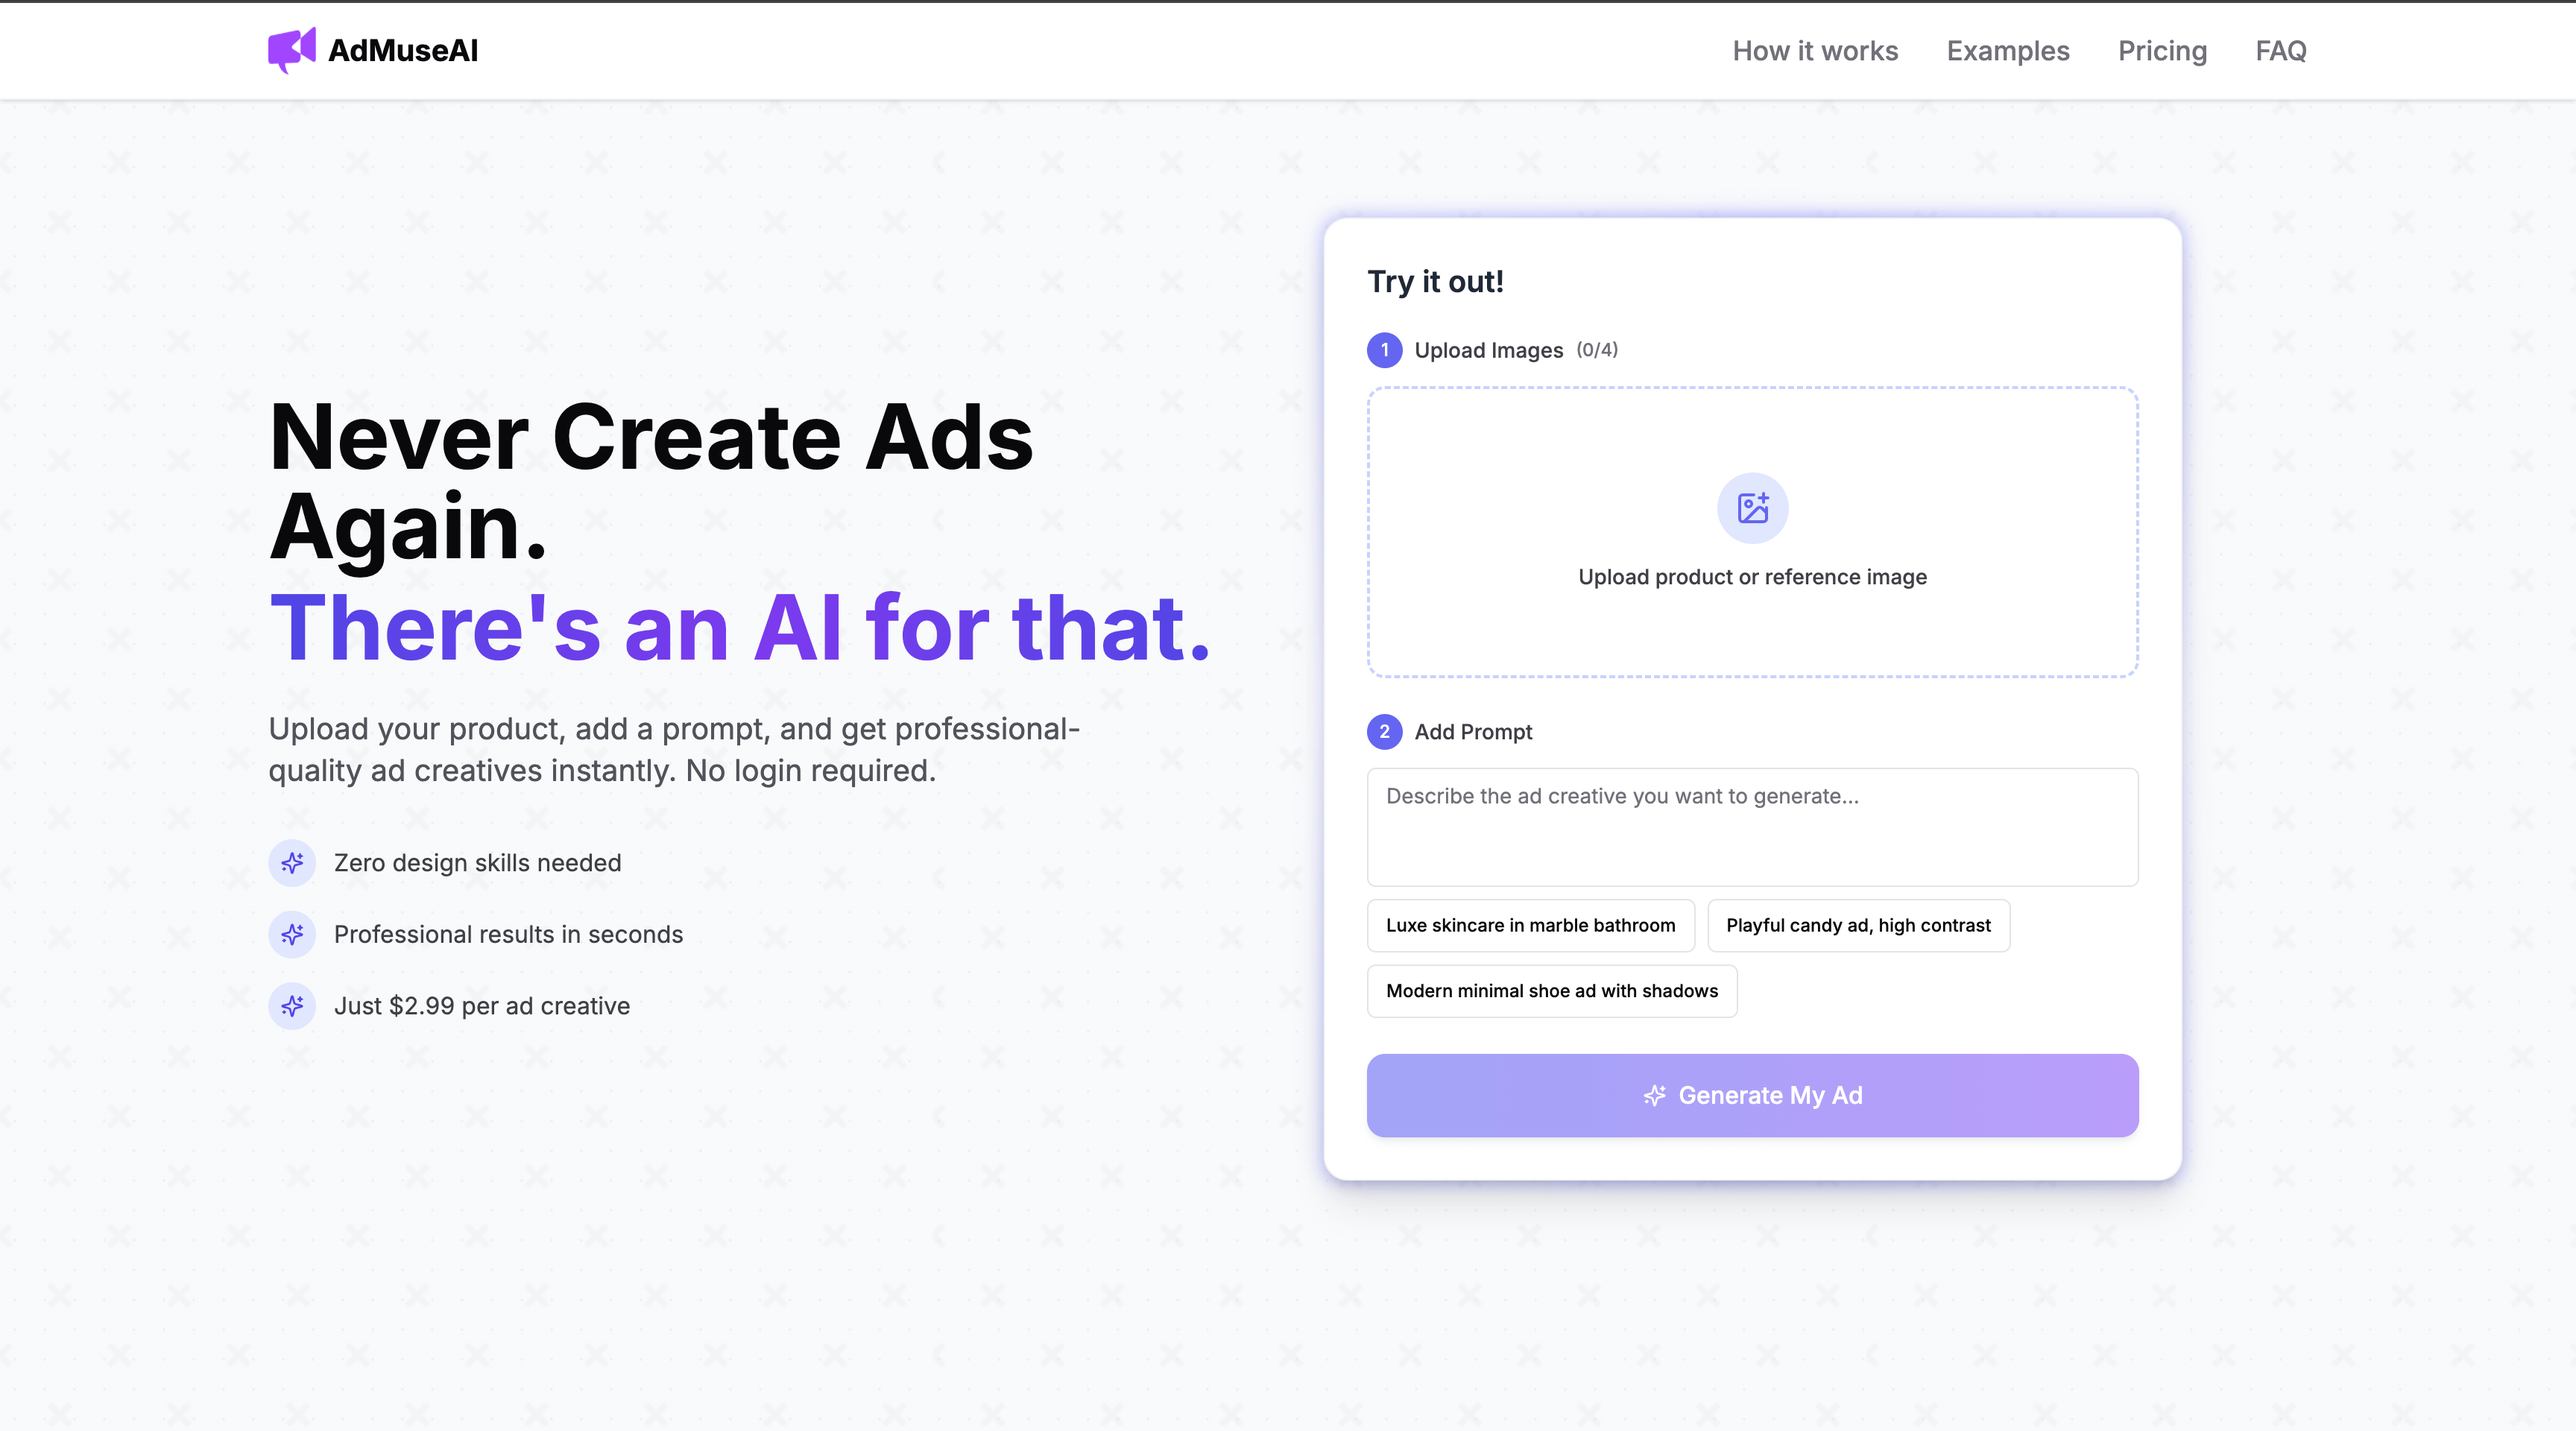
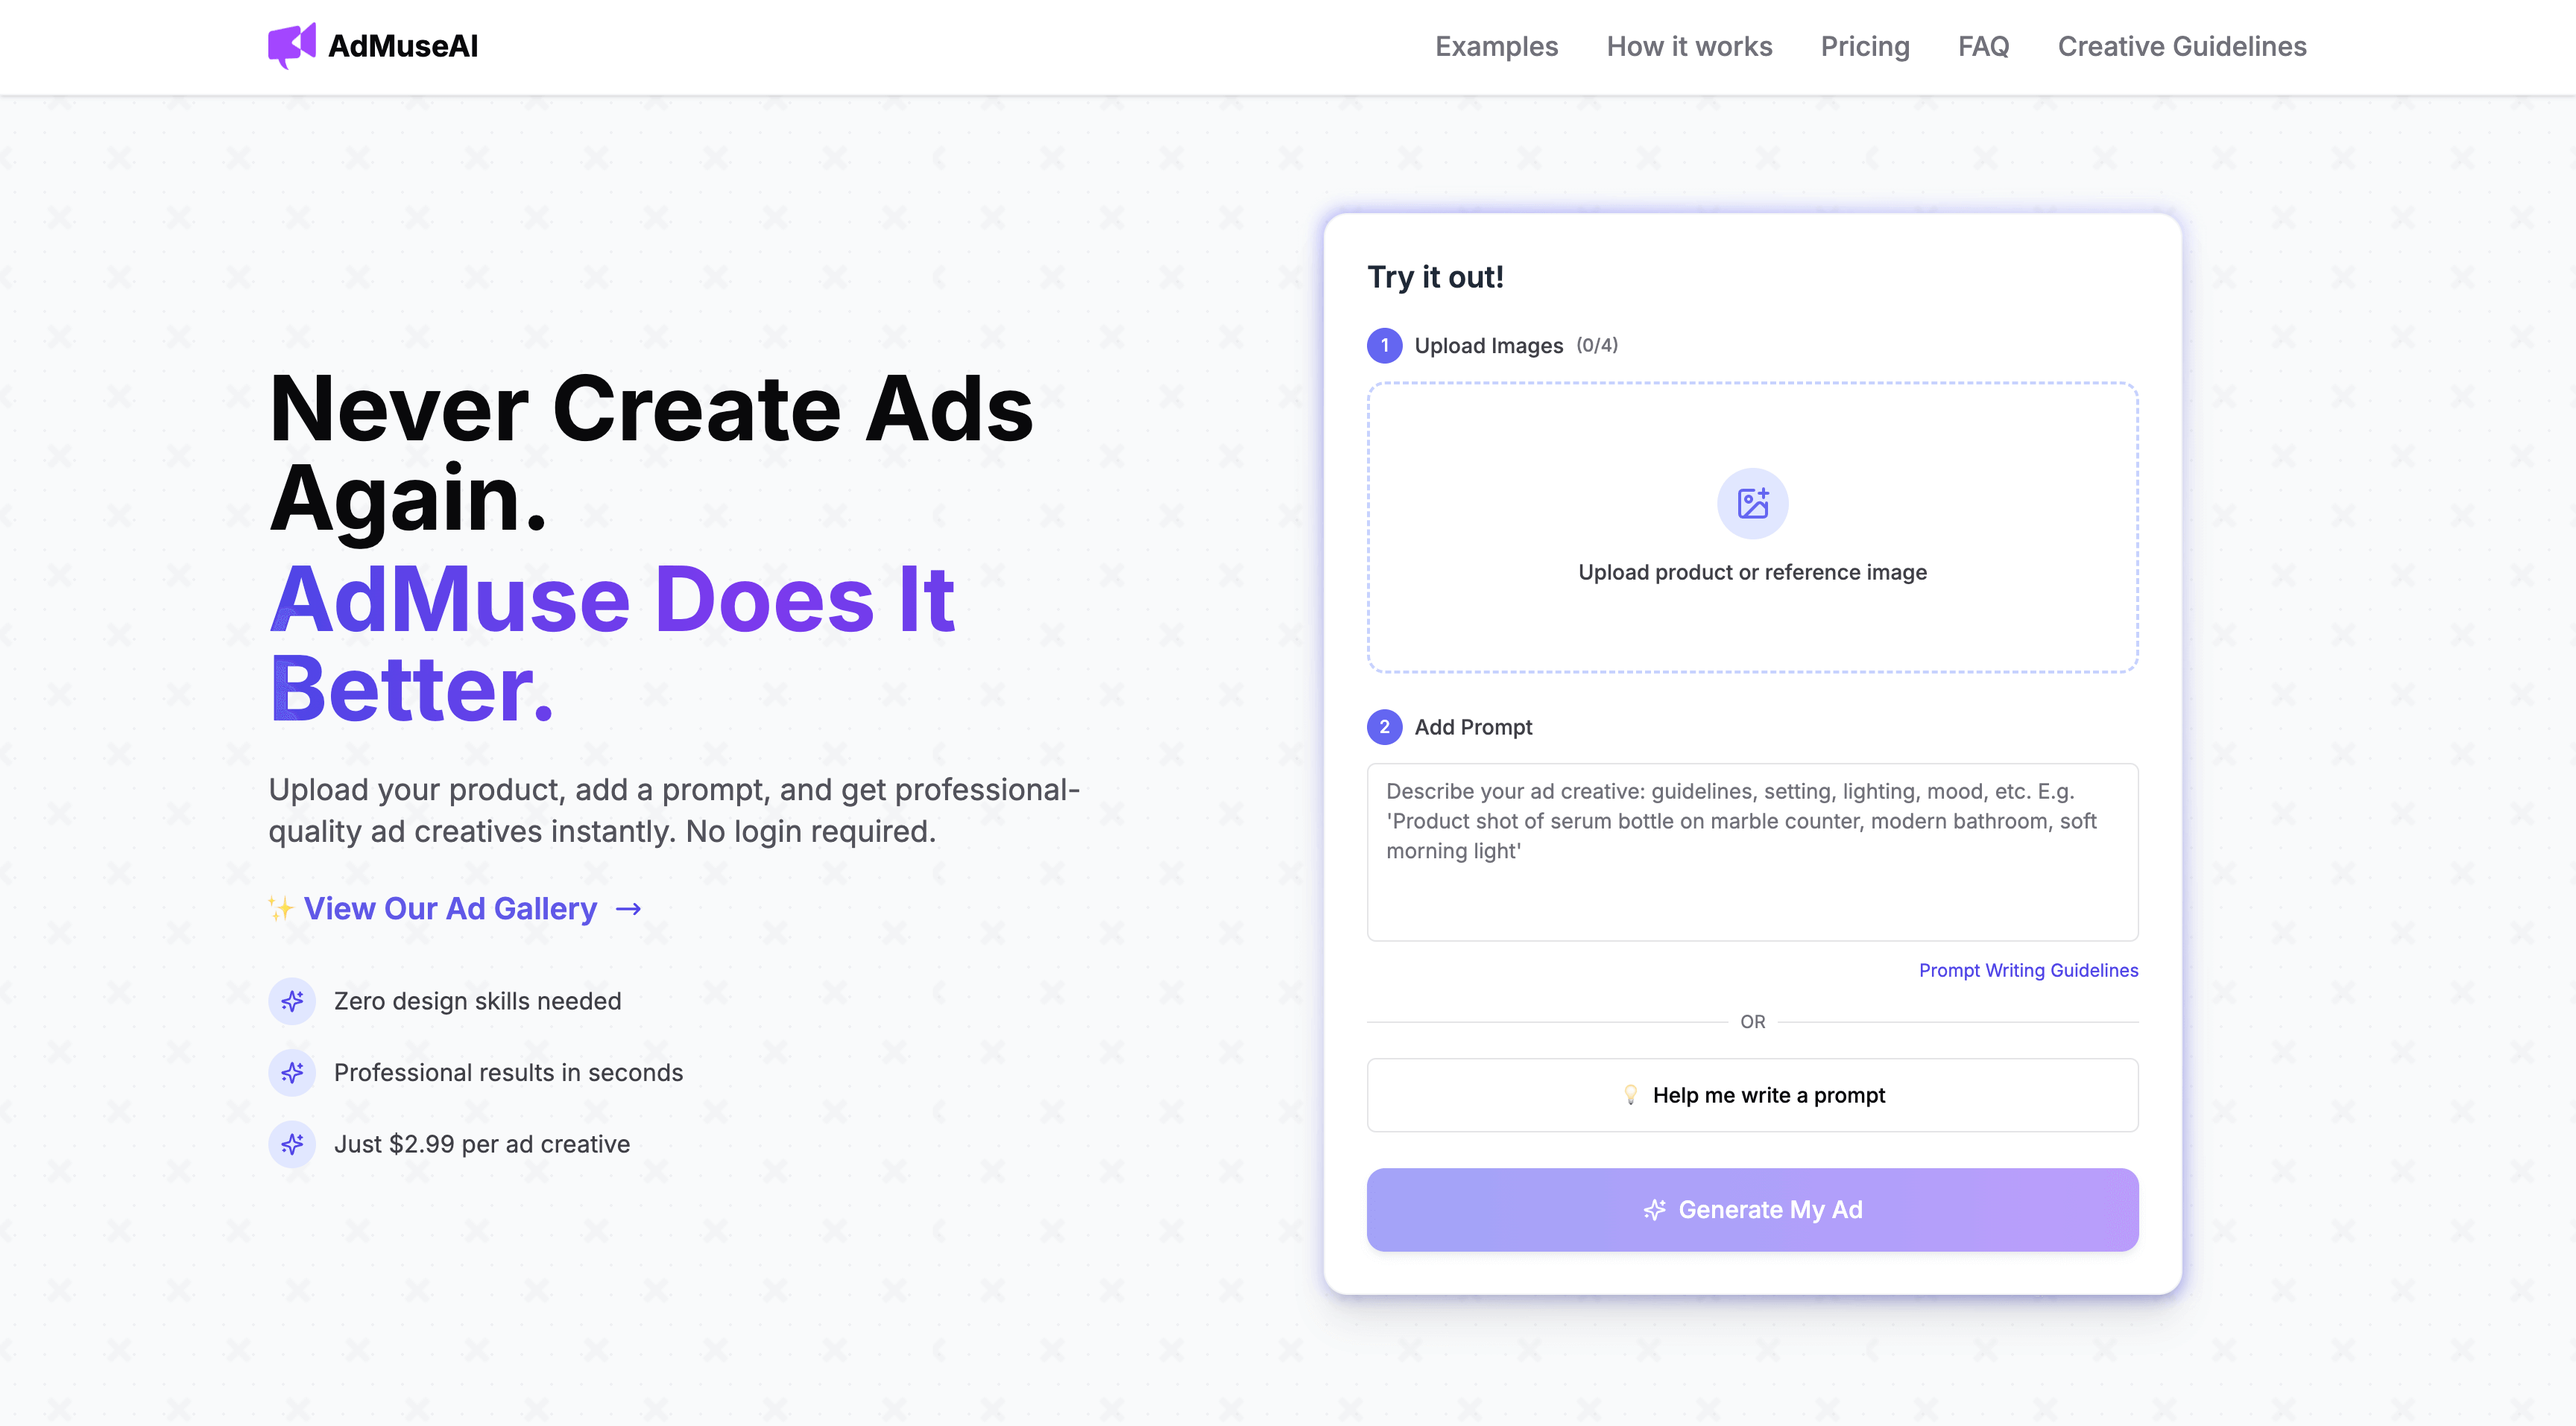
added prompt-guidelines link in wizard

diff --git a/components/prompt-wizard.tsx b/components/prompt-wizard.tsx
@@ -1,6 +1,7 @@
 "use client";
 
 import { useState } from "react";
+import Link from "next/link";
 
 import {
   Dialog,
@@ -320,62 +321,83 @@ export default function PromptWizard({
                   </p>
                 )}
                 {currentStep === 1 ? (
-                  <div className="grid grid-cols-2 gap-4">
-                    {(Object.keys(templates) as TemplateType[]).map(
-                      (templateType) => (
-                        <TooltipProvider key={templateType}>
-                          <Tooltip>
-                            <TooltipTrigger asChild>
-                              <button
-                                onClick={() => {
-                                  setValues({
-                                    ...values,
-                                    template: templateType,
-                                  });
-                                  trackAnalytics(
-                                    ANALYTICS_EVENTS.PROMPT_WIZARD_TEMPLATE_CLICKED,
-                                    {
+                  <>
+                    <div className="grid grid-cols-2 gap-4">
+                      {(Object.keys(templates) as TemplateType[]).map(
+                        (templateType) => (
+                          <TooltipProvider key={templateType}>
+                            <Tooltip>
+                              <TooltipTrigger asChild>
+                                <button
+                                  onClick={() => {
+                                    setValues({
+                                      ...values,
                                       template: templateType,
-                                    }
-                                  );
-                                }}
-                                className={`
-                                w-full p-4 rounded-lg border-2 transition-all duration-200
-                                ${
-                                  values.template === templateType
-                                    ? "border-indigo-600 bg-indigo-50"
-                                    : "border-gray-200 hover:border-indigo-200"
-                                }
-                              `}
-                              >
-                                <div className="text-left">
-                                  <div className="flex items-center gap-2">
-                                    {getTemplateIcon(templateType)}
-                                    <div className="font-medium">
-                                      {getTemplateName(templateType)}
+                                    });
+                                    trackAnalytics(
+                                      ANALYTICS_EVENTS.PROMPT_WIZARD_TEMPLATE_CLICKED,
+                                      {
+                                        template: templateType,
+                                      }
+                                    );
+                                  }}
+                                  className={`
+                                  w-full p-4 rounded-lg border-2 transition-all duration-200
+                                  ${
+                                    values.template === templateType
+                                      ? "border-indigo-600 bg-indigo-50"
+                                      : "border-gray-200 hover:border-indigo-200"
+                                  }
+                                `}
+                                >
+                                  <div className="text-left">
+                                    <div className="flex items-center gap-2">
+                                      {getTemplateIcon(templateType)}
+                                      <div className="font-medium">
+                                        {getTemplateName(templateType)}
+                                      </div>
+                                    </div>
+                                    <div className="text-sm text-gray-500 mt-2">
+                                      {templateDescriptions[templateType].short}
                                     </div>
                                   </div>
-                                  <div className="text-sm text-gray-500 mt-2">
-                                    {templateDescriptions[templateType].short}
-                                  </div>
-                                </div>
-                              </button>
-                            </TooltipTrigger>
-                            <TooltipContent
-                              side="top"
-                              align="center"
-                              sideOffset={5}
-                              className="bg-black text-white w-[250px] p-3"
-                            >
-                              <p className="text-sm leading-relaxed">
-                                {templateDescriptions[templateType].detailed}
-                              </p>
-                            </TooltipContent>
-                          </Tooltip>
-                        </TooltipProvider>
-                      )
-                    )}
-                  </div>
+                                </button>
+                              </TooltipTrigger>
+                              <TooltipContent
+                                side="top"
+                                align="center"
+                                sideOffset={5}
+                                className="bg-black text-white w-[250px] p-3"
+                              >
+                                <p className="text-sm leading-relaxed">
+                                  {templateDescriptions[templateType].detailed}
+                                </p>
+                              </TooltipContent>
+                            </Tooltip>
+                          </TooltipProvider>
+                        )
+                      )}
+                    </div>
+                    <div className="mt-4 text-center">
+                      <Link
+                        href="/prompt-writing-guidelines"
+                        target="_blank"
+                        rel="noopener noreferrer"
+                        className="text-sm text-indigo-600 hover:text-indigo-700 flex items-center gap-2 flex-start"
+                        onClick={() => {
+                          trackAnalytics(
+                            ANALYTICS_EVENTS.PROMPT_WRITING_GUIDELINES_CLICKED,
+                            {
+                              source: "prompt_wizard",
+                            }
+                          );
+                        }}
+                      >
+                        <Info className="h-4 w-4" />
+                        <span>Learn more about our templates</span>
+                      </Link>
+                    </div>
+                  </>
                 ) : (
                   renderFields(currentStepData.fields)
                 )}

diff --git a/components/hero.tsx b/components/hero.tsx
@@ -6,6 +6,13 @@ import AdGenerator from "./ad-generator";
 import { getFormattedPrice } from "@/lib/constants";
 
 export default function Hero() {
+  const scrollToExamples = () => {
+    const examplesSection = document.getElementById("examples");
+    if (examplesSection) {
+      examplesSection.scrollIntoView({ behavior: "smooth" });
+    }
+  };
+
   return (
     <div className="min-h-screen pt-20 md:pt-28 relative overflow-hidden">
       {/* Subtle background pattern */}
@@ -27,13 +34,53 @@ export default function Hero() {
               <h1 className="text-3xl sm:text-4xl md:text-5xl lg:text-6xl font-bold leading-tight mb-4 md:mb-6">
                 <span className="block mb-2">Never Create Ads Again.</span>
                 <span className="block bg-gradient-to-r from-indigo-600 via-violet-600 to-indigo-600 text-transparent bg-clip-text">
-                  There's an AI for that.
+                  AdMuse Does It Better.
                 </span>
               </h1>
               <p className="text-lg md:text-xl text-zinc-600 max-w-xl mt-4">
                 Upload your product, add a prompt, and get professional-quality
                 ad creatives instantly. No login required.
               </p>
+              <motion.div
+                onClick={scrollToExamples}
+                className="mt-6 inline-flex items-center gap-2 text-lg md:text-xl font-semibold text-indigo-600 hover:text-indigo-700 transition-colors cursor-pointer"
+                whileHover={{ x: 4 }}
+                whileTap={{ scale: 0.98 }}
+              >
+                <motion.span
+                  animate={{
+                    opacity: [1, 0.8, 1],
+                    scale: [1, 1.02, 1],
+                  }}
+                  transition={{
+                    duration: 2,
+                    repeat: Infinity,
+                    ease: "easeInOut",
+                  }}
+                >
+                  ✨ View Our Ad Gallery
+                </motion.span>
+                <motion.svg
+                  className="w-5 h-5"
+                  fill="none"
+                  stroke="currentColor"
+                  viewBox="0 0 24 24"
+                  initial={{ x: 0 }}
+                  animate={{ x: [0, 4, 0] }}
+                  transition={{
+                    duration: 1.5,
+                    repeat: Infinity,
+                    ease: "easeInOut",
+                  }}
+                >
+                  <path
+                    strokeLinecap="round"
+                    strokeLinejoin="round"
+                    strokeWidth={2}
+                    d="M17 8l4 4m0 0l-4 4m4-4H3"
+                  />
+                </motion.svg>
+              </motion.div>
             </div>
 
             <div className="space-y-3 md:space-y-4">
